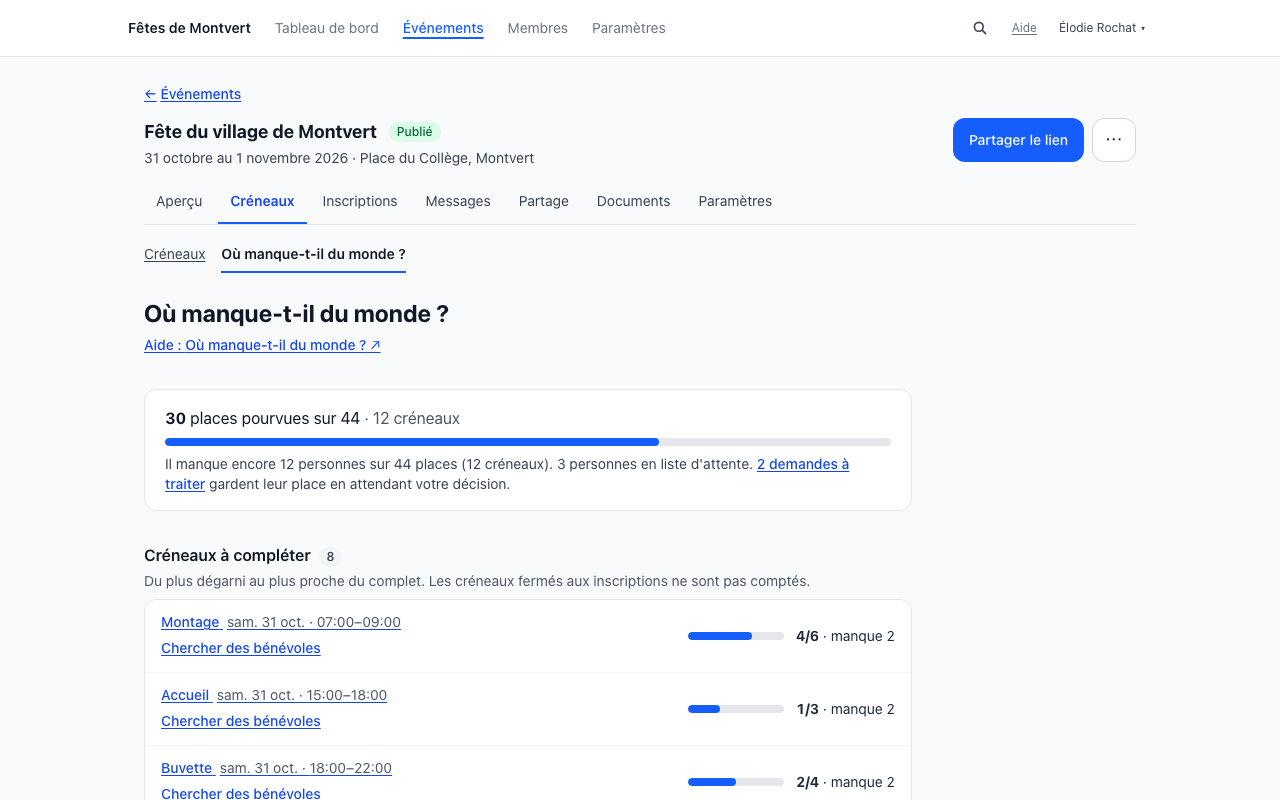
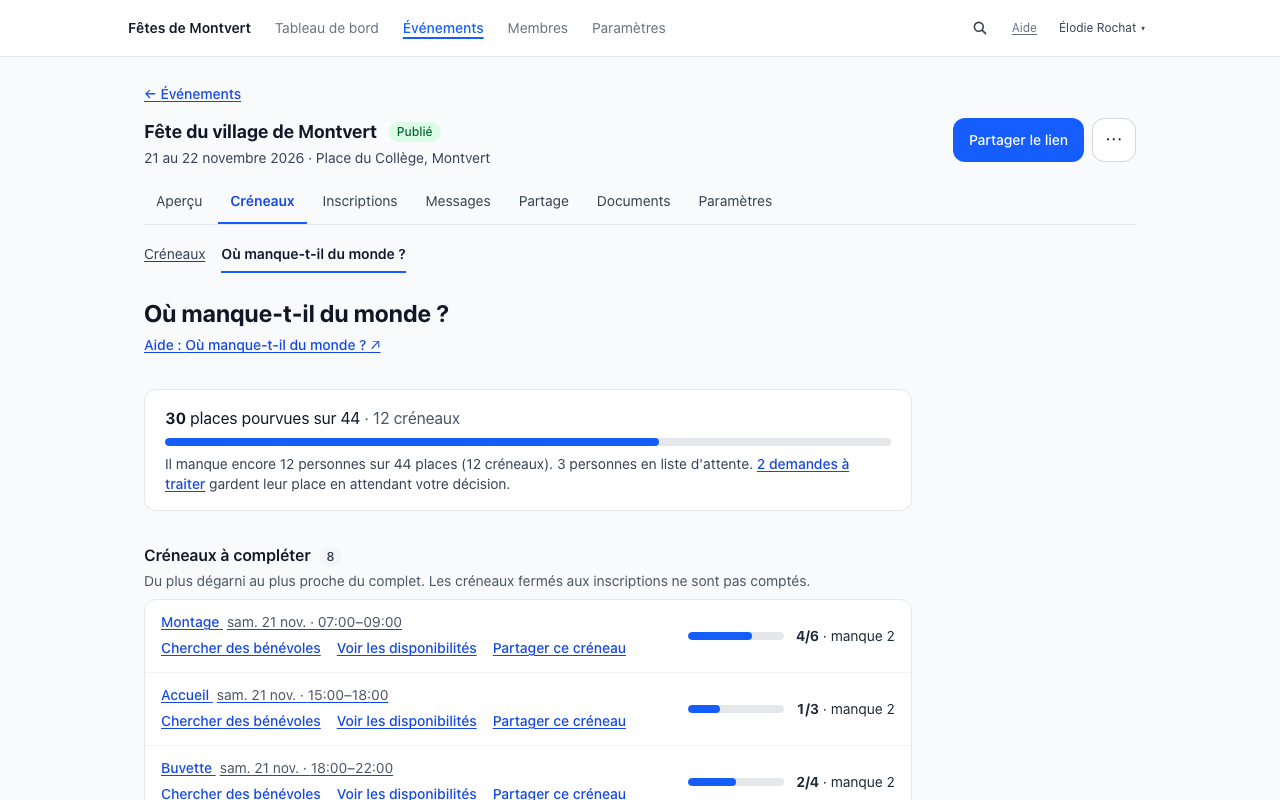
fix(staffing): name the shift in the share panel, announce the link, keep the checkbox state with its error; staffing capture

diff --git a/src/components/admin/ShiftShareButton.tsx b/src/components/admin/ShiftShareButton.tsx
@@ -15,7 +15,7 @@ const outlineButton =
   "inline-flex items-center min-h-9 text-sm font-medium border border-blue-600 text-blue-700 px-3 py-1.5 rounded-xl hover:bg-blue-50 transition-colors focus-visible:outline focus-visible:outline-2 focus-visible:outline-offset-2 focus-visible:outline-blue-600"
 
 /** The panel's link, once created (the POST is idempotent: the same shift returns the same link). */
-type PanelProps = { eventId: string; shiftId: string; onClose: () => void }
+type PanelProps = { eventId: string; shiftId: string; shiftName: string; onClose: () => void }
 
 /**
  * « Partager ce créneau » (#1386): on a shift of « Où manque-t-il du monde ? » that still needs
@@ -32,15 +32,16 @@ export default function ShiftShareButton({ eventId, shiftId, shiftName }: { even
         Partager ce créneau
         <span className="sr-only"> pour {shiftName}</span>
       </button>
-      {open && <ShiftSharePanel eventId={eventId} shiftId={shiftId} onClose={() => setOpen(false)} />}
+      {open && <ShiftSharePanel eventId={eventId} shiftId={shiftId} shiftName={shiftName} onClose={() => setOpen(false)} />}
     </>
   )
 }
 
-function ShiftSharePanel({ eventId, shiftId, onClose }: PanelProps) {
+function ShiftSharePanel({ eventId, shiftId, shiftName, onClose }: PanelProps) {
   const [link, setLink] = useState<AdminShiftLink | null>(null)
-  const [loading, setLoading] = useState(true)
   const [error, setError] = useState<string | null>(null)
+  // A failed save of the checkbox, said under it (not at the top of the panel).
+  const [saveError, setSaveError] = useState<string | null>(null)
   const [message, setMessage] = useState("")
   const [failed, setFailed] = useState(false)
   const [saving, setSaving] = useState(false)
@@ -50,6 +51,8 @@ function ShiftSharePanel({ eventId, shiftId, onClose }: PanelProps) {
 
   useEffect(() => {
     let current = true
+    // Said in the status region that is always there, then « Lien prêt. » (WCAG 4.1.3).
+    announce(setMessage, "Préparation du lien…")
     fetch(`/api/admin/events/${eventId}/shift-links`, {
       method: "POST",
       headers: { "Content-Type": "application/json" },
@@ -60,11 +63,11 @@ function ShiftSharePanel({ eventId, shiftId, onClose }: PanelProps) {
         if (!res.ok) throw new Error(typeof body?.error === "string" ? body.error : "Le lien n'a pas pu être créé.")
         return body as AdminShiftLink
       })
-      .then((data) => { if (current) { setLink(data); setLoading(false) } })
+      .then((data) => { if (current) { setLink(data); setFailed(false); announce(setMessage, "Lien prêt.") } })
       .catch((e: unknown) => {
         if (!current) return
+        setMessage("")
         setError(e instanceof Error ? e.message : "Le lien n'a pas pu être créé. Vérifiez votre connexion et réessayez.")
-        setLoading(false)
       })
     return () => { current = false }
   }, [eventId, shiftId])
@@ -99,7 +102,11 @@ function ShiftSharePanel({ eventId, shiftId, onClose }: PanelProps) {
   async function toggleAfterClose(checked: boolean) {
     if (!link || saving) return
     setSaving(true)
-    setError(null)
+    setSaveError(null)
+    // The box follows the click at once (its state is announced as the person sets it), and goes
+    // back if the save fails.
+    const previous = link
+    setLink({ ...link, acceptsAfterClose: checked })
     try {
       const res = await fetch(`/api/admin/events/${eventId}/shift-links/${link.id}`, {
         method: "PATCH",
@@ -108,7 +115,9 @@ function ShiftSharePanel({ eventId, shiftId, onClose }: PanelProps) {
       })
       const body = await res.json().catch(() => null)
       if (!res.ok) {
-        setError(typeof body?.error === "string" ? body.error : "Enregistrement impossible. Réessayez.")
+        setLink(previous)
+        setMessage("")
+        setSaveError(typeof body?.error === "string" ? body.error : "Enregistrement impossible. Réessayez.")
         return
       }
       setLink(body as AdminShiftLink)
@@ -116,7 +125,9 @@ function ShiftSharePanel({ eventId, shiftId, onClose }: PanelProps) {
         ? "Ce lien accepte une inscription même si les inscriptions de l'événement sont fermées."
         : "Ce lien suit de nouveau les dates d'inscription de l'événement.")
     } catch {
-      setError("Enregistrement impossible. Vérifiez votre connexion et réessayez.")
+      setLink(previous)
+      setMessage("")
+      setSaveError("Enregistrement impossible. Vérifiez votre connexion et réessayez.")
     } finally {
       setSaving(false)
     }
@@ -125,11 +136,10 @@ function ShiftSharePanel({ eventId, shiftId, onClose }: PanelProps) {
   return (
     <ModalShell title="Partager ce créneau" onClose={onClose} panelClassName="max-w-lg" busy={saving}>
       <div className="space-y-4 text-sm text-gray-800">
+        <p className="font-medium text-gray-900">{shiftName}</p>
         <p className="text-gray-700">
           À coller dans le groupe de discussion ou sur la page de votre association : la personne qui l&apos;ouvre voit ce créneau et s&apos;inscrit directement.
         </p>
-
-        {loading && <p role="status" className="text-gray-700">Préparation du lien…</p>}
 
         {error && (
           <div role="alert" className="rounded-xl border border-red-200 bg-red-50 px-3 py-2 text-red-800">{error}</div>
@@ -161,14 +171,15 @@ function ShiftSharePanel({ eventId, shiftId, onClose }: PanelProps) {
                   checked={link.acceptsAfterClose}
                   onChange={(e) => void toggleAfterClose(e.target.checked)}
                   aria-disabled={saving || undefined}
-                  aria-describedby={`${id}-hint`}
-                  className="mt-0.5 h-4 w-4 shrink-0 rounded border-gray-500"
+                  aria-describedby={saveError ? `${id}-hint ${id}-error` : `${id}-hint`}
+                  className="mt-0.5 h-4 w-4 shrink-0 rounded border-gray-500 aria-disabled:opacity-50 aria-disabled:cursor-not-allowed"
                 />
                 Accepter une inscription même si les inscriptions de l&apos;événement sont fermées
               </label>
               <p id={`${id}-hint`} className="text-xs text-gray-600 mt-1">
                 Valable pour ce créneau seulement, tant qu&apos;il reste une place et qu&apos;il n&apos;a pas commencé.
               </p>
+              {saveError && <p id={`${id}-error`} role="alert" className="text-sm text-red-800 mt-1">{saveError}</p>}
             </div>
 
             <p className="text-gray-700">{shiftShareRegistrationsText(link.registrations)}</p>

diff --git a/videos/FINAL_REVIEW_EVIDENCE.md b/videos/FINAL_REVIEW_EVIDENCE.md
@@ -1382,3 +1382,7 @@ Les quinze vidéos des points 1 à 9 ont été traitées : **douze READY publié
 ## Lot 41 — phase 2, éditeur de créneau : écart H résolu, 16 novembre 2026
 
 **SHIFT_CREATE_EDIT_DETAIL : READY, publiée, révision 6, 134,76 s.** Troisième vidéo H dans l’ordre initial : nouvelle voix Kore continue, six limites corrigées avant la prise, sept ASR source/final et contrôle de voix conformes. Deux répétitions, une seule prise narrée ; pauses des heures raccourcies avant la prise pour terminer leur saisie pendant leur explication. Sept revues AV / 25 points sans signalement, quatorze images finales inspectées. Minimum (optionnel), aide des paramètres du poste et libellés actuels sont visibles ; le vrai créneau 18h–21h30 est enregistré avec trois places et ses informations pratiques, puis relu. Les écarts historiques de minimum et de libellés de cette vidéo sont résolus. Musique 15,4–19,1 LU sans trou, zéro tutoiement, dix-neuf clics réels sonorisés. Aperçu puis APPLY=1, cinq fichiers envoyés ; vérification distante cinq inchangés et durée publiée synchronisée. [Rapport et preuves](evidence/batch41/phase2/shift-create-edit-detail/review-report.txt). Aucun changement produit ni écoute subjective humaine revendiquée.
+
+## À refilmer : « Partager ce créneau » sur « Où manque-t-il du monde ? » (#1386, 17 novembre 2026)
+
+Chaque créneau à compléter porte maintenant un troisième lien, **Partager ce créneau**, après « Chercher des bénévoles » et « Voir les disponibilités » ; il ouvre une fenêtre avec le lien public du créneau, « Copier le lien », « QR code PNG » et la case « Accepter une inscription même si les inscriptions de l'événement sont fermées ». Les sélecteurs de capture visent des liens de `staffing-underfilled` et ne cassent pas ; seule l'image change. Vidéos touchées : **STAFFING_GAPS** (manifeste `staffing-gaps`, à compléter d'un segment sur le partage dans un groupe de discussion), **LAST_MINUTE_CHANGES** (`last-minute-changes`, le geste le plus utile la veille : un segment à ajouter), **SECTORS** (`sectors`, image seulement). À reprendre au prochain lot vidéo.
